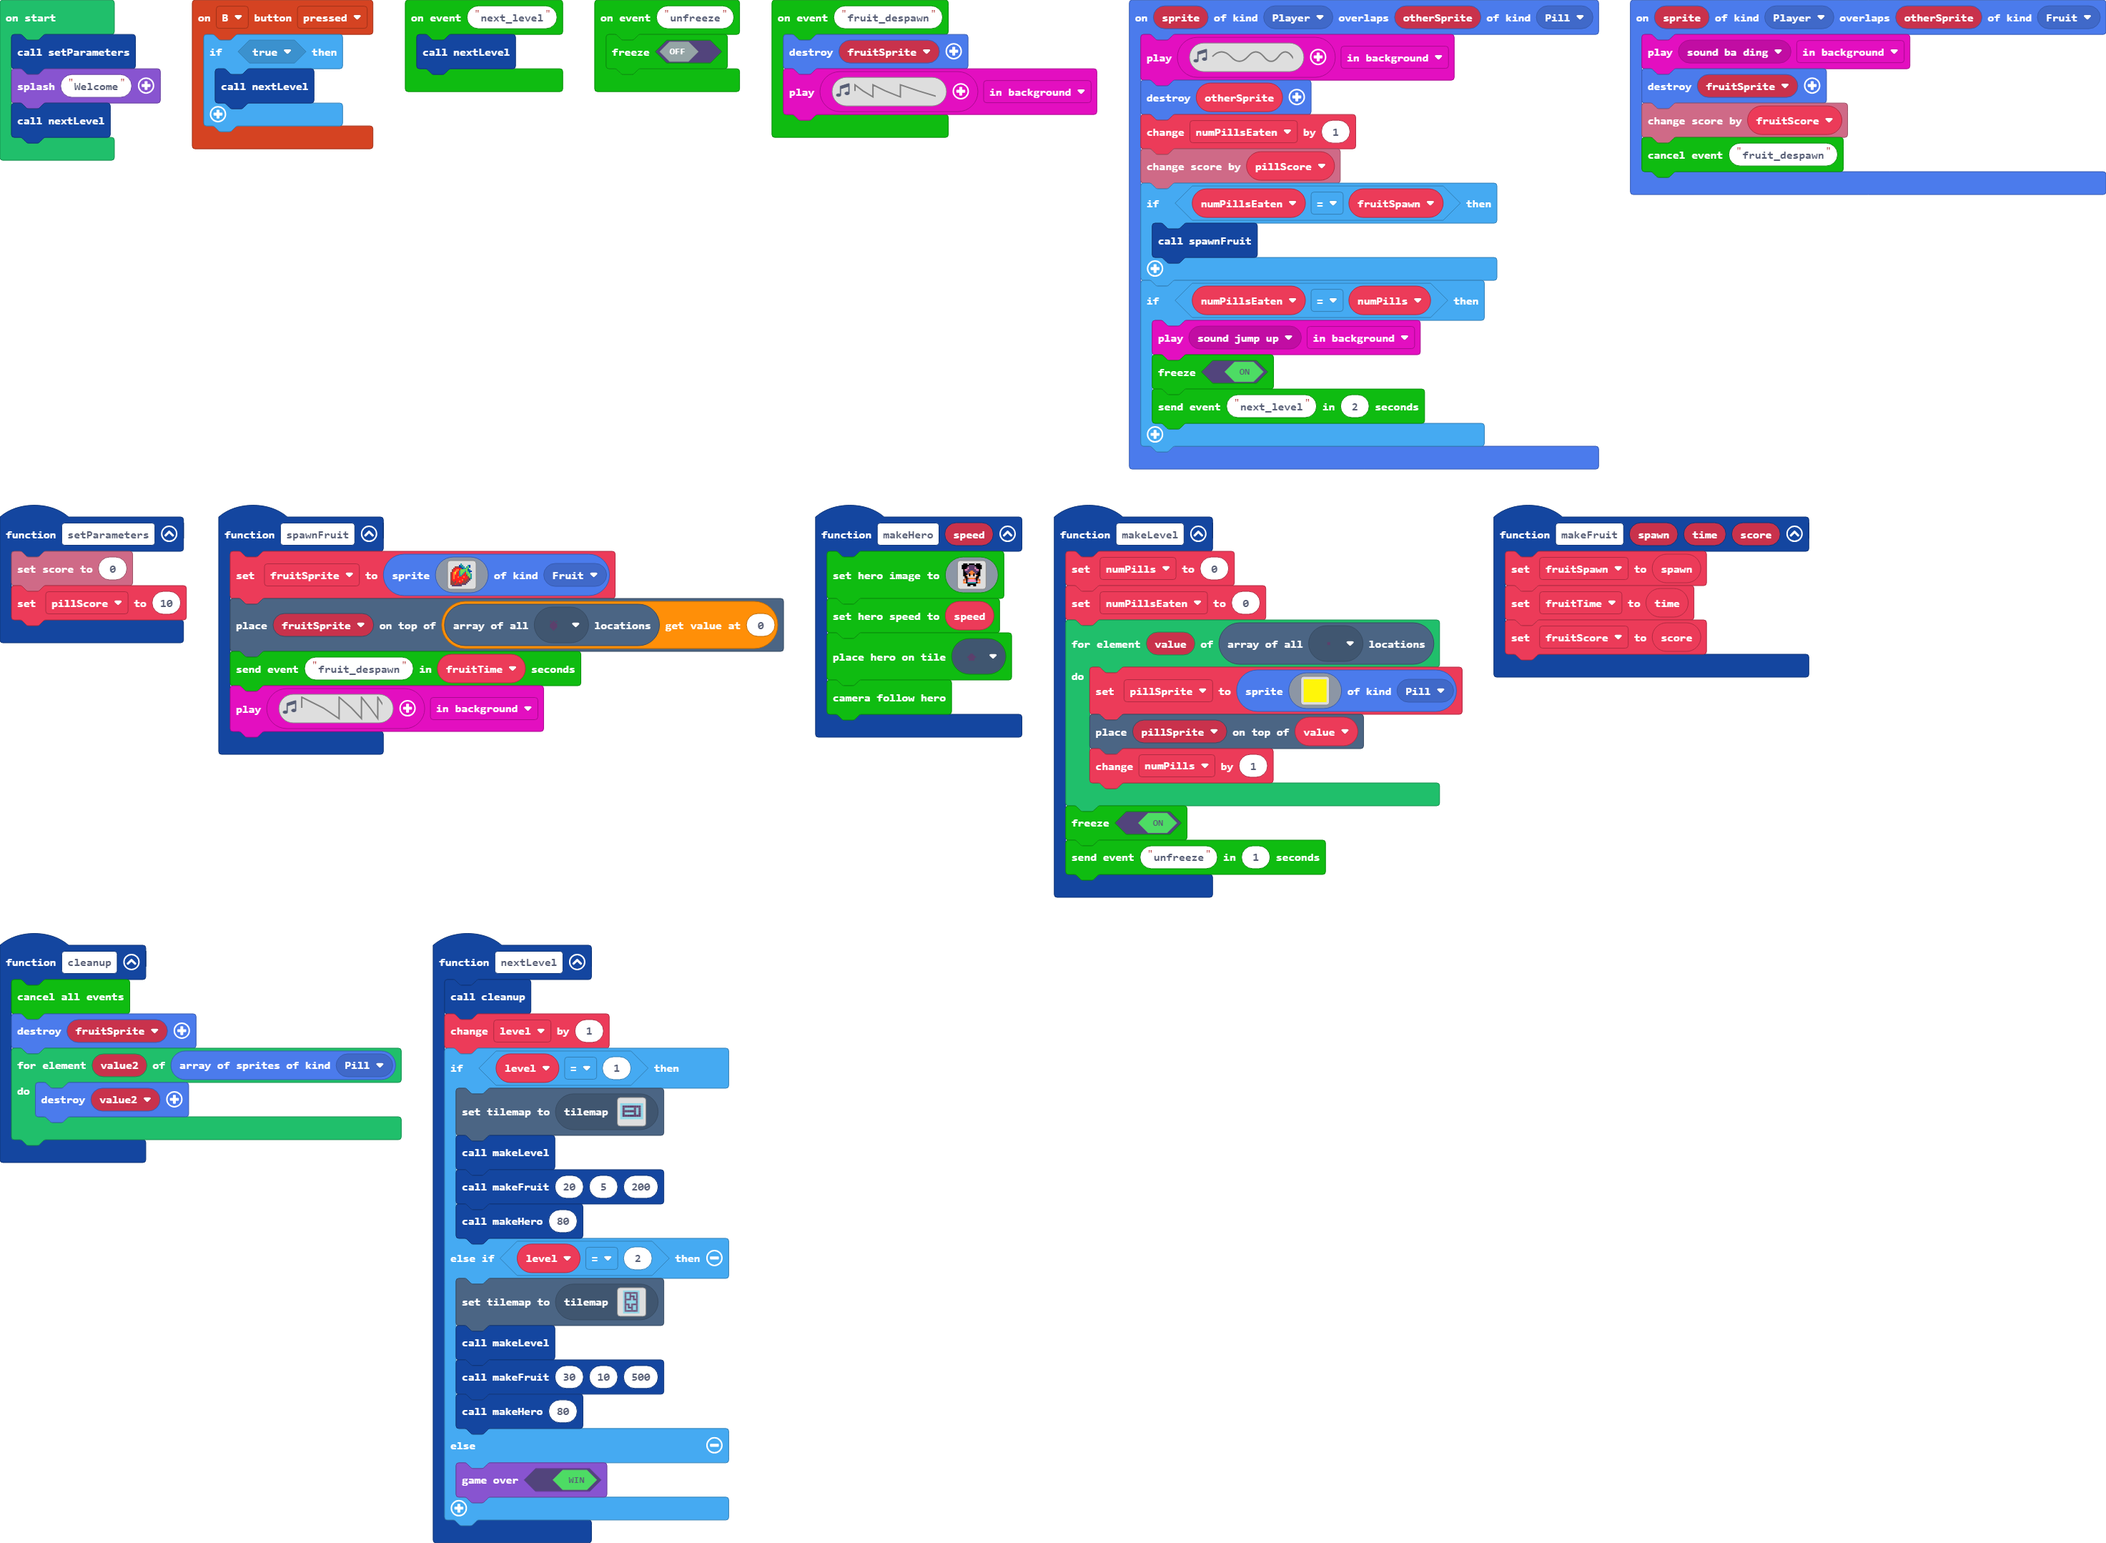
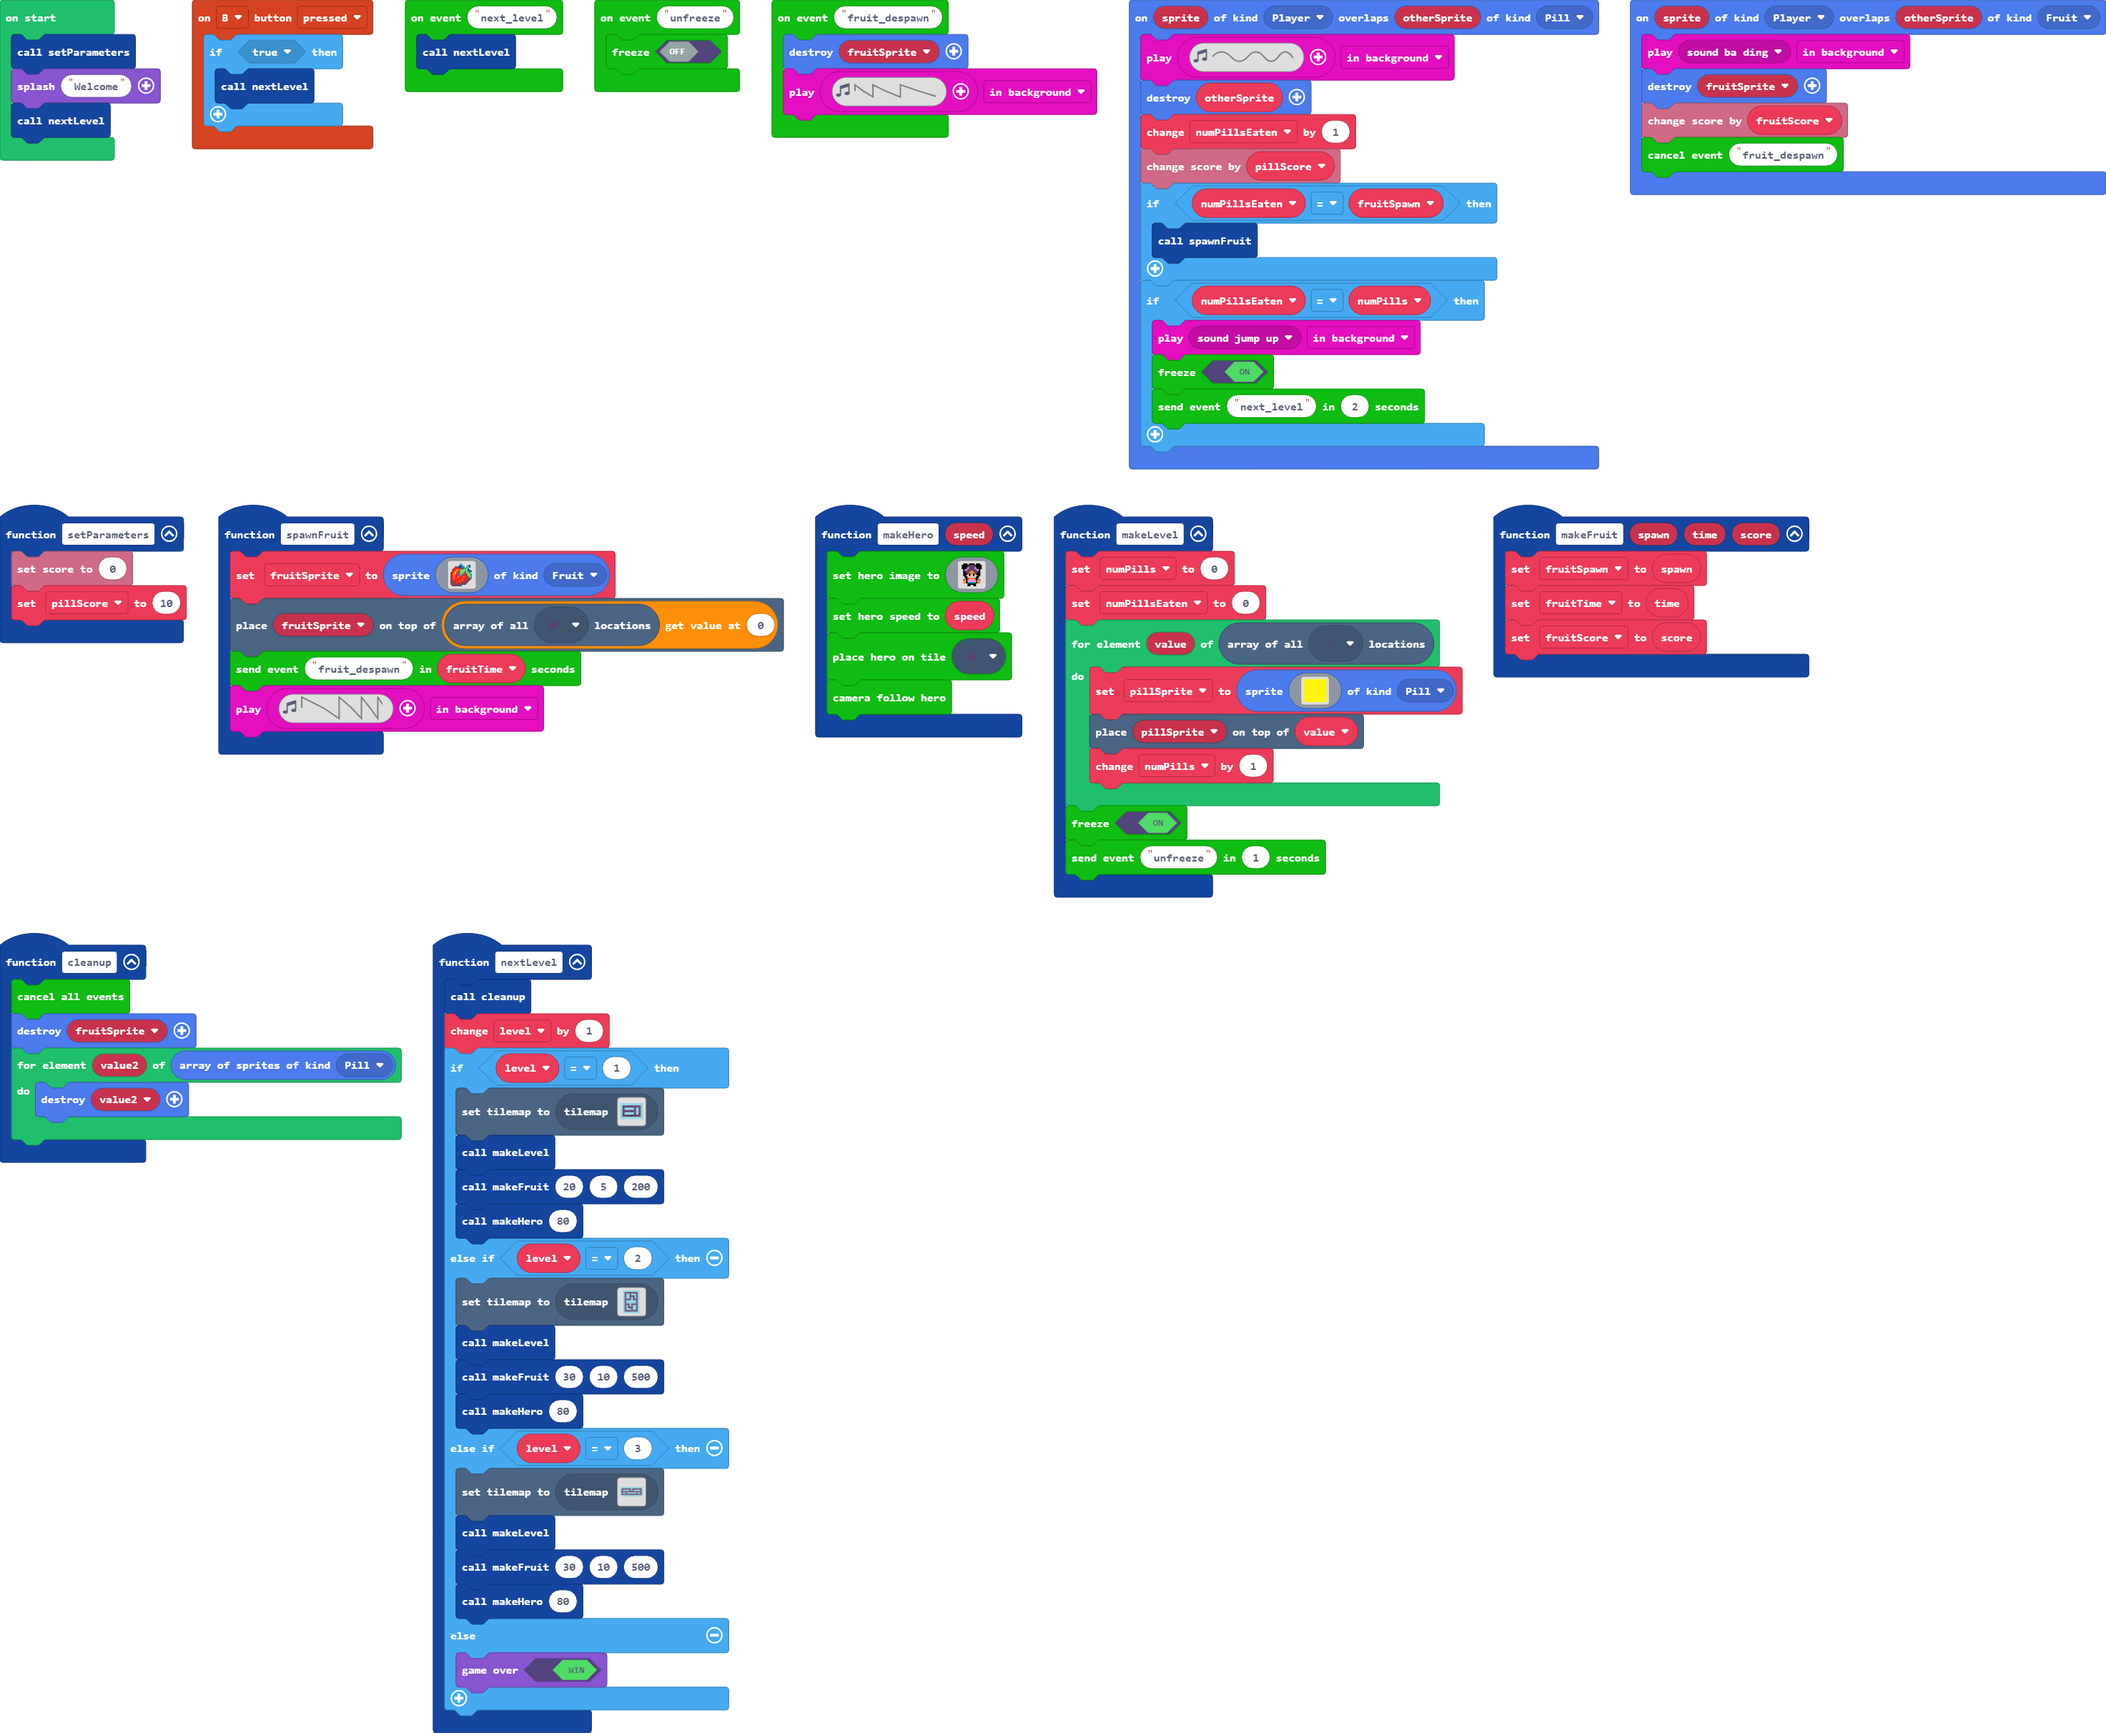
New level

Changed region(s): [[0.0, 0.0, 0.8744, 0.5899], [0.0, 0.5278, 0.3435, 0.9935], [0.7495, 0.0, 1.0, 0.1242]]

diff --git a/tilemap.g.ts b/tilemap.g.ts
@@ -173,6 +173,16 @@ namespace myTiles {
 . . . . . . . . . . . . . . . . 
 . . . . . . . . . . . . . . . . 
 `, [myTiles.transparency16], TileScale.Sixteen);
+            case "level10":
+            case "level10":return tiles.createTilemap(hex`110007000404040404040404040404040404040404040101010101010104030101010101010404010404040404010401040404040401040401010101010101010101010101010104040104040104040404040404010404010404020101010101010101010101010101040404040404040404040404040404040404`, img`
+2 2 2 2 2 2 2 2 2 2 2 2 2 2 2 2 2 
+2 . . . . . . . 2 . . . . . . . 2 
+2 . 2 2 2 2 2 . 2 . 2 2 2 2 2 . 2 
+2 . . . . . . . . . . . . . . . 2 
+2 . 2 2 . 2 2 2 2 2 2 2 . 2 2 . 2 
+2 . . . . . . . . . . . . . . . 2 
+2 2 2 2 2 2 2 2 2 2 2 2 2 2 2 2 2 
+`, [myTiles.transparency16,myTiles.tile2,myTiles.tile3,myTiles.tile4,myTiles.tile1], TileScale.Sixteen);
         }
         return null;
     })

diff --git a/main.ts b/main.ts
@@ -99,6 +99,11 @@ function nextLevel () {
         makeLevel()
         makeFruit(30, 10, 500)
         makeHero(80)
+    } else if (level == 3) {
+        tiles.setCurrentTilemap(tilemap`level10`)
+        makeLevel()
+        makeFruit(30, 10, 500)
+        makeHero(80)
     } else {
         game.gameOver(true)
     }
